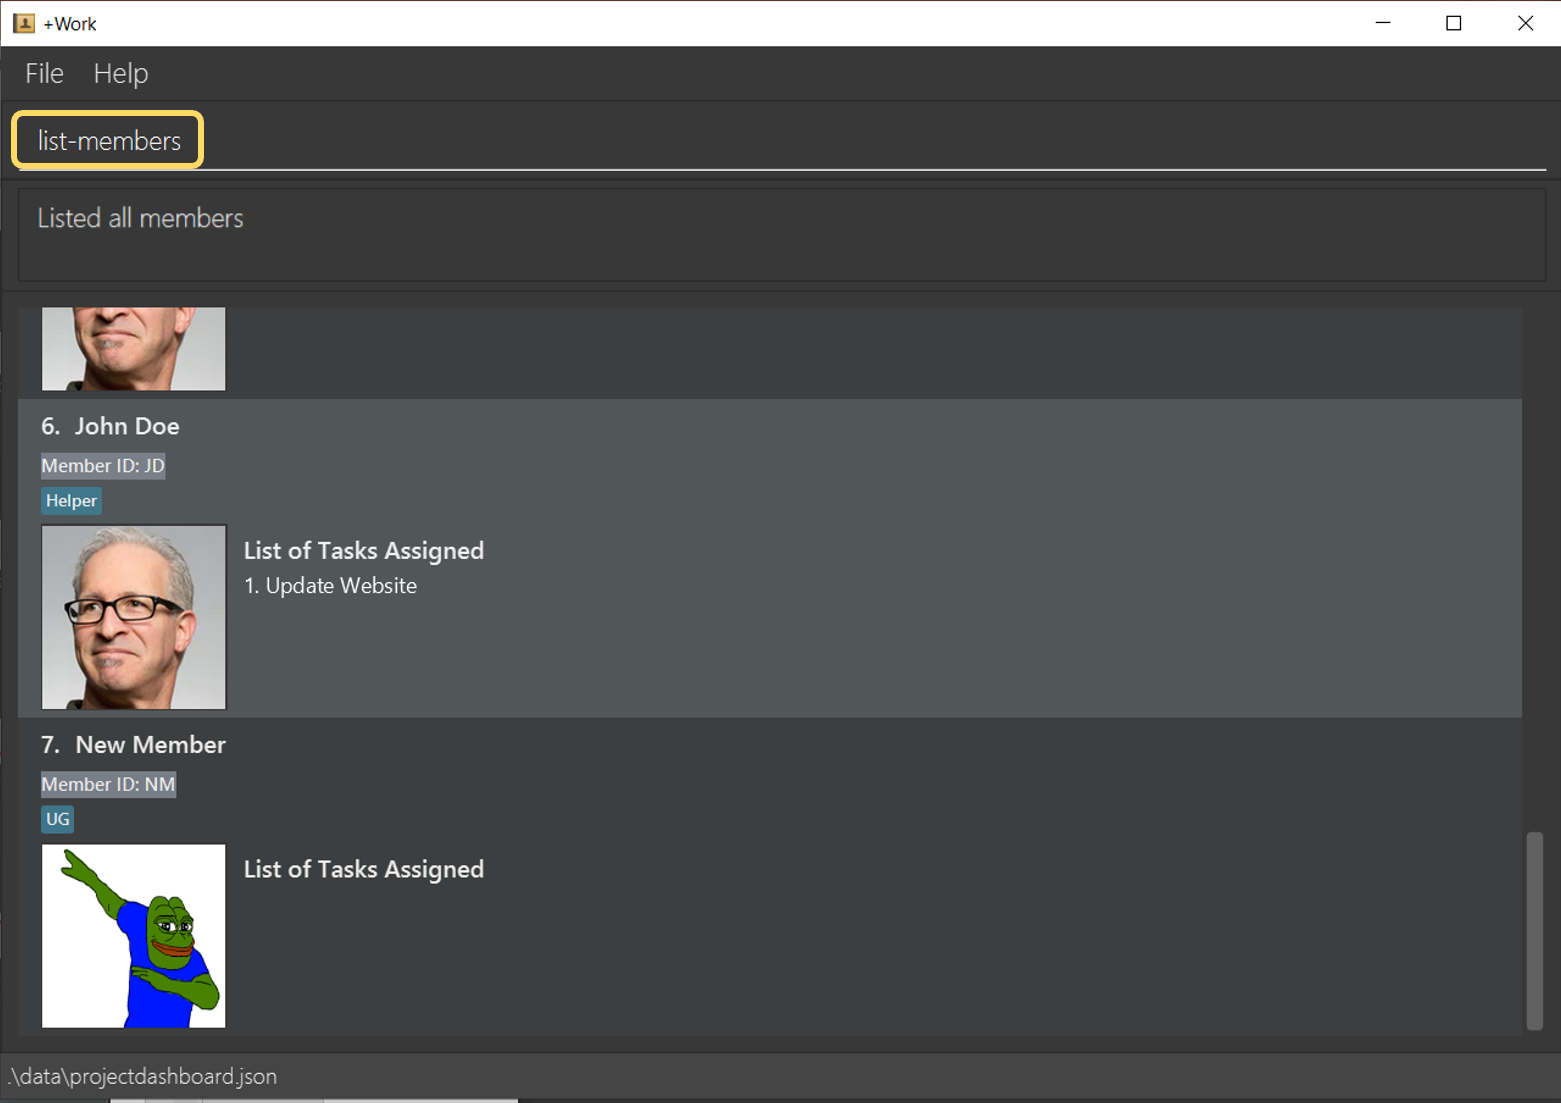
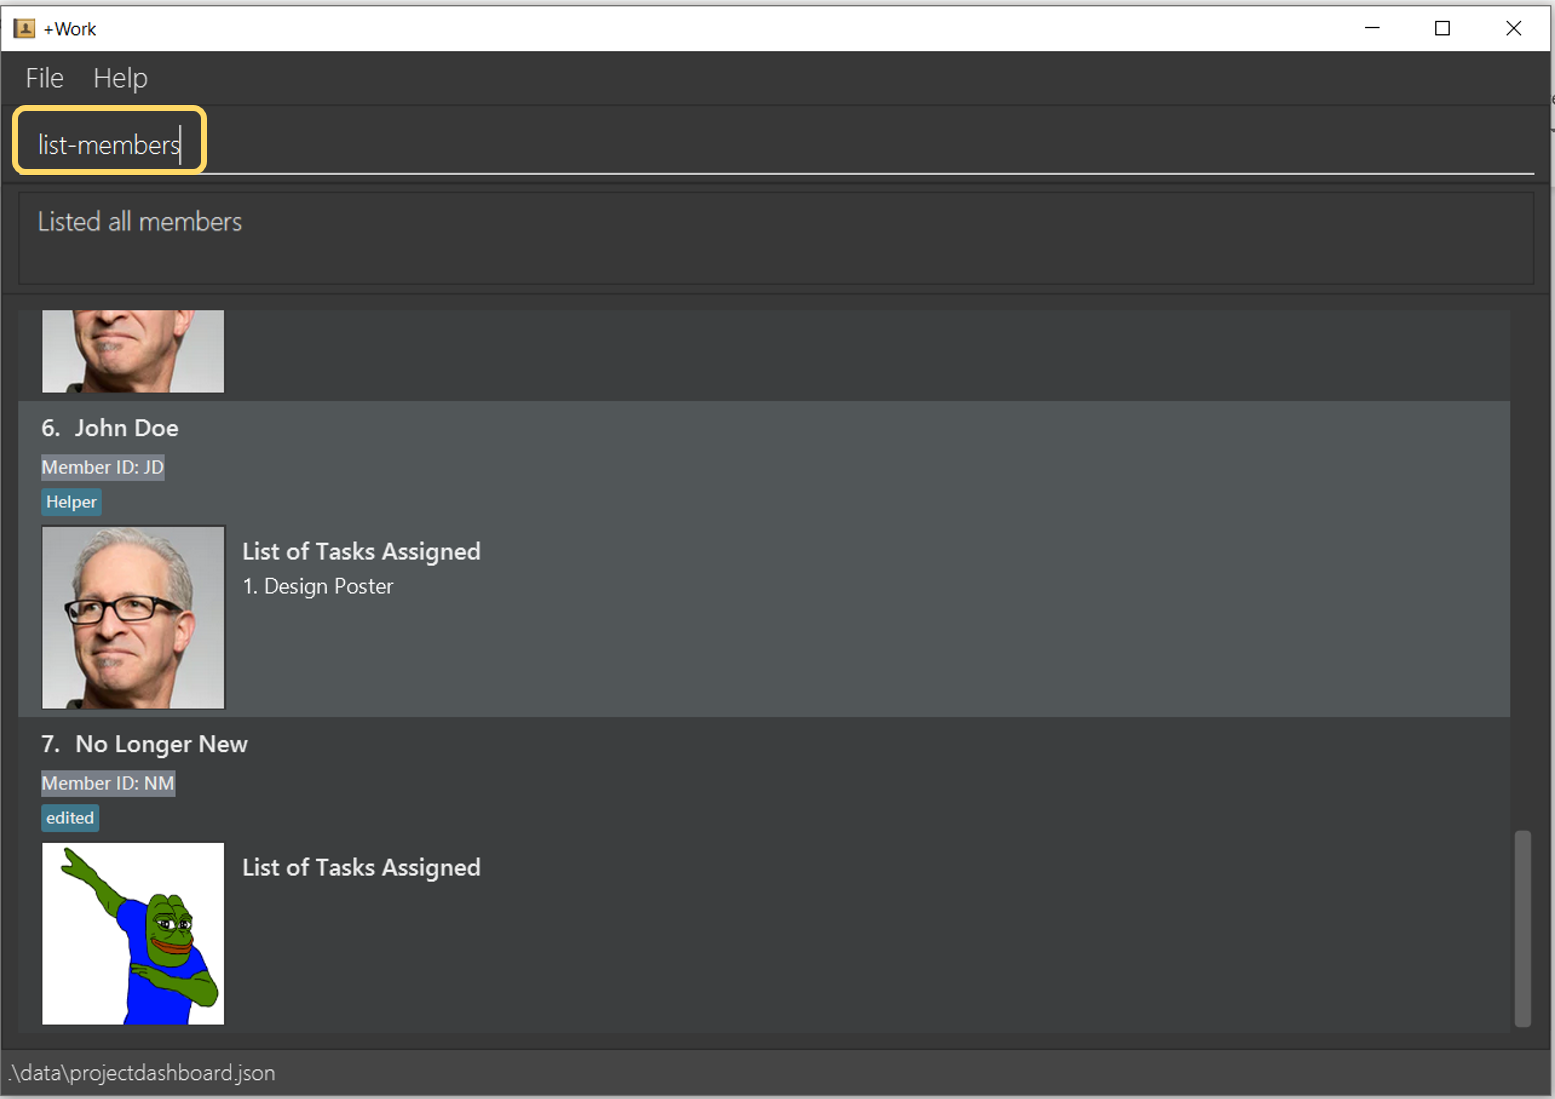
Updated UG for member related commands

diff --git a/src/main/java/seedu/address/logic/commands/EditMemberCommand.java b/src/main/java/seedu/address/logic/commands/EditMemberCommand.java
@@ -33,7 +33,6 @@ public class EditMemberCommand extends Command {
             + "Existing values will be overwritten by the input values.\n"
             + "Parameters:" + PREFIX_MEMBER_ID + "MEMBER ID"
             + PREFIX_MEMBER_NAME + "NAME"
-            + PREFIX_MEMBER_ID + "MEMBER ID"
             + PREFIX_MEMBER_TAG + "TAG]...\n"
             + "Example: " + COMMAND_WORD + " mi ";
 
@@ -95,10 +94,11 @@ public class EditMemberCommand extends Command {
         assert memberToEdit != null;
 
         MemberName updatedName = editMemberDescriptor.getName().orElse(memberToEdit.getName());
-        MemberId updatedMemberId = editMemberDescriptor.getId().orElse(memberToEdit.getId());
+        MemberId updatedMemberId = memberToEdit.getId();
         Set<Tag> updatedTags = editMemberDescriptor.getTags().orElse(memberToEdit.getTags());
+        String imagePath = memberToEdit.getImageUrl();
 
-        return new Member(updatedName, updatedMemberId, updatedTags);
+        return new Member(updatedName, updatedMemberId, updatedTags, imagePath);
     }
 
     @Override
@@ -125,7 +125,6 @@ public class EditMemberCommand extends Command {
      */
     public static class EditMemberDescriptor {
         private MemberName name;
-        private MemberId id;
         private Set<Tag> tags;
 
         public EditMemberDescriptor() {}
@@ -136,7 +135,6 @@ public class EditMemberCommand extends Command {
          */
         public EditMemberDescriptor(EditMemberDescriptor toCopy) {
             setName(toCopy.name);
-            setId(toCopy.id);
             setTags(toCopy.tags);
         }
 
@@ -144,16 +142,9 @@ public class EditMemberCommand extends Command {
          * Returns true if at least one field is edited.
          */
         public boolean isAnyFieldEdited() {
-            return CollectionUtil.isAnyNonNull(name, id, tags);
+            return CollectionUtil.isAnyNonNull(name, tags);
         }
 
-        public void setId(MemberId id) {
-            this.id = id;
-        }
-
-        public Optional<MemberId> getId() {
-            return Optional.ofNullable(id);
-        }
         public void setName(MemberName name) {
             this.name = name;
         }
@@ -195,7 +186,6 @@ public class EditMemberCommand extends Command {
             EditMemberDescriptor e = (EditMemberDescriptor) other;
 
             return getName().equals(e.getName())
-                    && (getId().equals(e.getId()))
                     && getTags().equals(e.getTags());
         }
     }

diff --git a/src/main/java/seedu/address/logic/parser/EditMemberCommandParser.java b/src/main/java/seedu/address/logic/parser/EditMemberCommandParser.java
@@ -36,7 +36,7 @@ public class EditMemberCommandParser implements Parser<EditMemberCommand> {
         MemberId id;
 
         if (!arePrefixesPresent(argMultimap, PREFIX_MEMBER_ID)) {
-            throw new ParseException(String.format(MESSAGE_INVALID_COMMAND_FORMAT, EditMemberCommand.MESSAGE_USAGE));
+            throw new ParseException(String.format(MESSAGE_INVALID_COMMAND_FORMAT, MESSAGE_NO_ID));
         }
 
         try {
